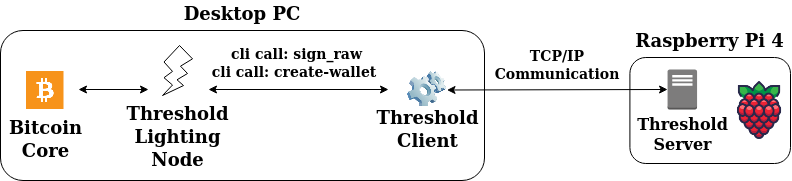
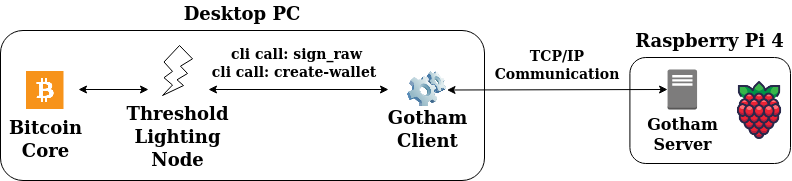
modify README and fig

Changed region(s): [[0.4545, 0.6077, 0.6061, 0.6906], [0.7879, 0.6354, 0.9394, 0.7182]]

diff --git a/README.md b/README.md
@@ -6,15 +6,34 @@ The implementation was done by [Omer Shlomovits][omer] and [me][ahmet] as part o
 
 To perform the 2-party threshold operations, [gotham-city][gotham] from ZenGo was used. However, we slightly modified it to our needs.
 
+The work resulted in 2 publications: [WiSec '21 paper][wisec] and [arXiv preprint][arxiv] (currently in-review).
+
+
+* [Overall Architecture](#overall-architecture)
+* [Installation Steps for Desktop PC](#installation-steps-for-desktop-pc)
+    * [Bitcoin Core](#bitcoin-core)
+    * [Core Lightning](#core-lightning)
+    * [Gotham Client](#gotham-client)
+* [Installation Steps for Raspberry Pi](#installation-steps-for-raspberry-pi)
+    * [Gotham Server](#gotham-server)
+
+
 ## Overall Architecture:
 
 <img src="architecture.png" width="600" height="auto"> 
 
-## Steps
+Essentially, we split a Lightning node into two using threshold cryptography. All Lightning operations such as opening a channel, sending a payment, receiving a payment, and closing a channel are performed jointly between two parties. This seperation is useful for the following scenarios:
+ - Improve Lightning node's security by adding another user that acts as a signer.
+ - Enable a resource constrained device to use Lightning trustlessly through another node.
+
+For our implementation, we chose to use a Raspberry Pi 4 as the signer (or resource constrained device). A desktop PC runs the Gotham Client along with the Lightning Node. Lightning node makes cli calls to the Gotham Client whenever a signing operation is needed. Then, Gotham Client communicates with Gotham Server which runs on the Raspberry Pi to perform any threshold operation.
+
+
+## Installation Steps for Desktop PC
 
 **The implementation was tested on a fresh Ubuntu 16.04.7 installation.**
 
-## Bitcoin Core
+### Bitcoin Core
 
 Install Bitcoin Core first which is now available via snapd:
 ```bash
@@ -48,7 +67,7 @@ bitcoin-cli getblockcount
 
 Now we are done with configuring Bitcoin. Moving onto Core Lightning part.
 
-## Core Lightning
+### Core Lightning
 
 Get dependencies:
 ```bash
@@ -61,11 +80,11 @@ sudo apt install -y \
 
 Clone this repository:
 ```bash
+cd ~
 git clone https://github.com/startimeahmet/lightning.git
 ```
 
-Build c-lightning:
-
+Build Core Lightning:
 ```bash
 cd ~/lightning
 ./configure
@@ -73,16 +92,28 @@ make
 sudo make install
 ```
 
-Running c-lightning:
-
+Create a config file for Core Lightning:
 ```bash
-lightningd &
-lightning-cli help
+mkdir ~/.lightning
+touch ~/.lightning/config
 ```
 
-## Gotham Client
+Paste the following into `config` file you just created:
+```
+network=testnet
+log-level=debug
+```
 
-Gotham Client is run on the desktop machine alongside the Lightning node.
+You can now run Core Lightning:
+```bash
+lightningd &
+```
+
+Wait before doing anything with the Lightning node, because you need to set up Gotham Client first.
+
+### Gotham Client
+
+Gotham Client is run on the desktop machine and used by the Lightning node for threshold operations.
 
 Get dependencies:
 ```bash
@@ -96,8 +127,9 @@ rustup default nightly-2020-08-27
 source "$HOME/.cargo/env"
 ```
 
-Clone the repo and switch branch:
+Clone the repo and switch to `cyclic-dependency` branch:
 ```bash
+cd ~
 git clone https://github.com/startimeahmet/gotham-city
 cd gotham-city
 git checkout cyclic-dependency
@@ -109,8 +141,21 @@ cd ~/gotham-city/gotham-client
 cargo build --release
 ```
 
-## Gotham Server
-Gotham Server is run on the Raspberry Pi.
+Finally, modify the first line in `Settings.toml` file inside Gotham Client folder.
+```bash
+nano ~/gotham-city/gotham-client/Settings.toml
+```
+
+Here, for endpoint, you need to enter the IP address and the port number of the Gotham Server. 
+```
+endpoint = "http://localhost:8000"
+```
+
+## Installation Steps For Raspberry Pi
+
+### Gotham Server 
+
+Raspberry Pi only runs the Gotham Server to join in threshold operations.
 
 After installing a fresh Raspbian on the Pi, first install the dependencies:
 ```bash
@@ -124,11 +169,18 @@ rustup default nightly-2020-08-27
 source "$HOME/.cargo/env"
 ```
 
-Clone the repo and switch branch:
+Clone the repo and switch to `cyclic-dependency` branch:
 ```bash
+cd ~
 git clone https://github.com/startimeahmet/gotham-city
 cd gotham-city
 git checkout cyclic-dependency
+```
+
+Compile Gotham Server:
+```bash
+cd ~/gotham-city/gotham-server
+cargo build --release
 ```
 
 Find the IP address of the Pi that Gotham Server will use:
@@ -136,24 +188,18 @@ Find the IP address of the Pi that Gotham Server will use:
 ifconfig
 ```
 
-After determining the IP (and the port), modify the `Rocket.toml` file inside Gotham Server:
+After determining the IP (and the port), modify the `Rocket.toml` file inside Gotham Server folder:
 ```bash
 nano ~/gotham-city/gotham-server/Rocket.toml
 ```
 
-with the following:
+Here, for `port` and `address`, you need to enter the IP address and the port number you found earlier. 
 ```
 [production]
-address = "insert the IP address here"
-port = "insert port here"
+address = "localhost"
+port = 8000
 keep_alive = 5
 log = "normal"
-```
-
-Then compile Gotham Server:
-```bash
-cd ~/gotham-city/gotham-server
-cargo build --release
 ```
 
 Finally, run the Gotham Server:
@@ -166,3 +212,5 @@ cargo run --release
 [ahmet]: https://www.linkedin.com/in/ahmet-kurt-fiu/
 [gotham-ahmet]: https://github.com/startimeahmet/gotham-city/tree/cyclic-dependency
 [testnet]: https://blockstream.info/testnet/
+[wisec]: https://doi.org/10.1145/3448300.3467833
+[arxiv]: https://arxiv.org/abs/2206.02248
